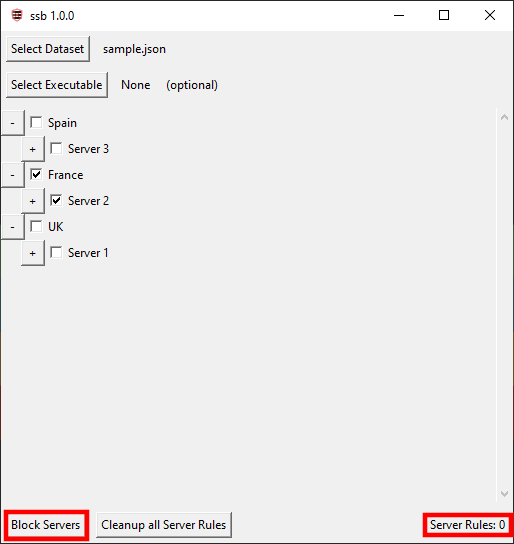
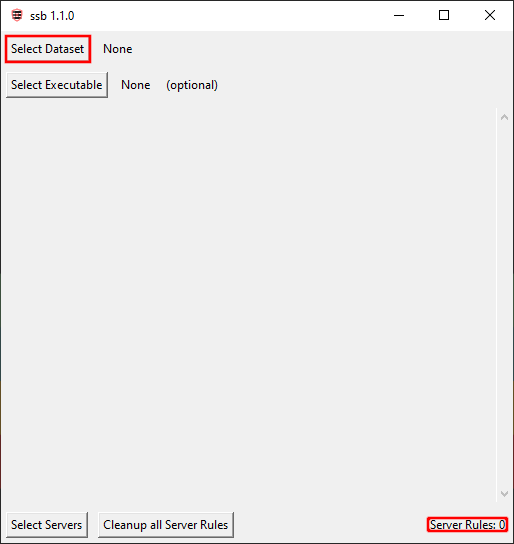
Added IPv6 support

diff --git a/services/ip_utils.py b/services/ip_utils.py
@@ -1,13 +1,42 @@
-import re
+import ipaddress
 
-IP_REGEX = re.compile(
-    r"^(?:\d{1,3}\.){3}\d{1,3}"
-    r"(?:/\d{1,2})?"
-    r"(?:-(?:\d{1,3}\.){3}\d{1,3})?$"
-)
+def is_cidr(value):
+    try:
+        ipaddress.ip_network(value, strict=False)
+        return True
+    except ValueError:
+        return False
+
+def is_single_ip(value):
+    try:
+        ipaddress.ip_address(value)
+        return True
+    except ValueError:
+        return False
+
+def is_range(value):
+    if not isinstance(value, str) or "-" not in value:
+        return False
+
+    start, end = value.split("-", 1)
+
+    try:
+        ip_start = ipaddress.ip_address(start)
+        ip_end = ipaddress.ip_address(end)
+
+        return type(ip_start) is type(ip_end)
+    except ValueError:
+        return False
 
 def is_ip(value):
-    return isinstance(value, str) and IP_REGEX.match(value)
+    if not isinstance(value, str):
+        return False
+
+    return is_single_ip(value) or is_cidr(value) or is_range(value)
+
+def normalize_range(value):
+    start, end = value.split("-", 1)
+    return f"{start.strip()}-{end.strip()}"
 
 def extract_ips(value):
     ips = set()
@@ -21,7 +50,7 @@ def extract_ips(value):
             ips.update(extract_ips(item))
 
     elif is_ip(value):
-        ips.add(value)
+        ips.add(normalize_range(value) if is_range(value) else value)
 
     return ips
 

diff --git a/README.md b/README.md
@@ -11,28 +11,26 @@
 
    Choose a program if you want the firewall rules to apply only to a specific application, if left empty, rules will apply system-wide.
 
-3. **Select what to block**
+3. **Select which servers you want to use(everything else will be blacklisted)**
 
 4. **Apply the rules**
-   Click **`Block Servers`**
-   
-    → The app will automatically:
 
-   * Collect all relevant IPs from your selection
-   * Generate the necessary firewall rules
-   * Apply them to your system
+   Click **`Select Servers`**
 
 5. **Toggle rules on/off**
-   The button will switch to **`Unblock Servers`**, allowing you to quickly remove the applied rules.
+
+   The button will switch to **`Unselect Servers`**, allowing you to quickly remove the applied rules.
 
 6. **Clean up all server rules**
+
    Click **`Cleanup all Server Rules`** to remove all rules created by the tool.
 
 7. **Monitor active rules**
+
    The UI displays the number of currently active custom firewall rules.
 
 ## Build
-Make sure you have ![python3](https://www.python.org/downloads/) installed on your system.
+Make sure you have [python3](https://www.python.org/downloads/) installed on your system.
 ### 1. Install PyInstaller
 
 ```bat
@@ -53,20 +51,34 @@ build.bat
 
 ```text
 dist\
-└── main.exe
+└── ssb.exe
 ```
 
 ## Screenshots
-![Blocking french server using a sample.json dataset](assets/screenshot1.png)
-![Active rule](assets/screenshot2.png)
+![Selecting dataset](assets/screenshot1.png)
+![Selecting EU Servers (Blocking US ones)](assets/screenshot2.png)
+![Activating rules](assets/screenshot3.png)
 ## Donate
 Donate to support me and my projects
 
-| [![PayPal](https://www.paypalobjects.com/marketing/web/logos/paypal-mark-color_new.svg)](https://paypal.me/raafaa99) | ![Bitcoin](assets/bitcoin.png) | ![Monero](assets/monero.png) |
-| :---: | :---: | :---: |
-| PayPal | Bitcoin | Monero |
-| [raafaa99](https://paypal.me/raafaa99) | 1MvzcDqAVfuQLYZKNCcBoVNYe2neta3pkM | 4254FmcCGBNbaq9CcqkUSk8eY3cqACjrGXRWkxXxXbjD1Up3Nu4BsCA1YCkrnrzG4SUmwDJQnBYJoeLrucWSDRhyRchRAHP |
+### PayPal
+<a href="https://paypal.me/raafaa99">
+   <img src="https://www.paypalobjects.com/marketing/web/logos/paypal-mark-color_new.svg" alt="PayPal" width="100px">
+</a>
 
+### Bitcoin
+<a href="assets/bitcoin.png">
+   <img src="assets/bitcoin.png" alt="Bitcoin" width="100px">
+</a>
+
+(1MvzcDqAVfuQLYZKNCcBoVNYe2neta3pkM)
+
+### Monero
+<a href="assets/monero.png">
+   <img src="assets/monero.png" alt="Monero" width="100px">
+</a>
+
+(4254FmcCGBNbaq9CcqkUSk8eY3cqACjrGXRWkxXxXbjD1Up3Nu4BsCA1YCkrnrzG4SUmwDJQnBYJoeLrucWSDRhyRchRAHP)
 
 ## License
 [![GNU GPLv3 Image](https://www.gnu.org/graphics/gplv3-127x51.png)](https://www.gnu.org/licenses/gpl-3.0.en.html)  